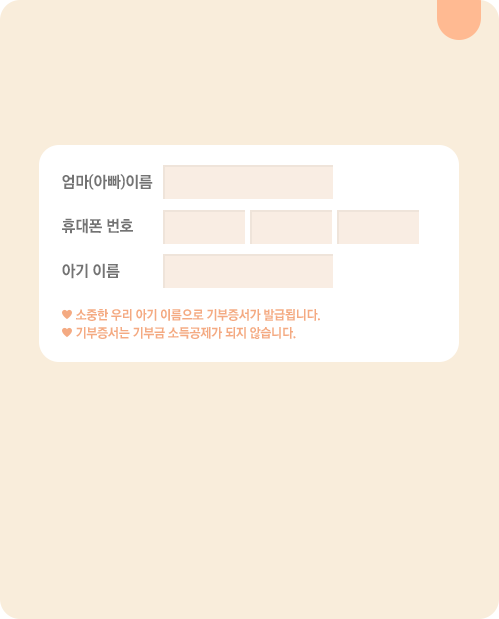
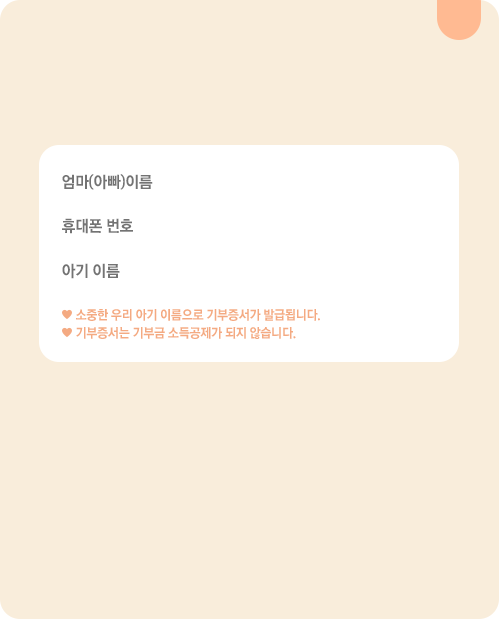
인풋 수정

Changed region(s): [[0.3006, 0.2456, 0.8417, 0.4911]]

diff --git a/PC/css/style_yang.css b/PC/css/style_yang.css
@@ -38,7 +38,8 @@ a {
 	padding: 0;
 	font-size: 100%;
 	vertical-align: baseline;
-	background: transparent
+	background: transparent;
+	outline: none !important;
 }
 ins {
 	background-color: #ff9;
@@ -889,7 +890,6 @@ body.main{
 }
 
 .popup_wrap .p_position.p_mid_input .block_input .input_one input{
-	border:none;
 	padding:5px 3px;
 	width:160px;
 	font-family:Gotham, "Helvetica Neue", Helvetica, Arial, sans-serif;
@@ -897,7 +897,10 @@ body.main{
 	font-size:14px;
 	line-height:18px;
 	color:#000;
-	background:none;
+	background: #f9ede3; 
+	border: none; 
+	border-left: 2px solid #efe4da; 
+	border-top: 2px solid #efe4da;	
 }
 
 .popup_wrap .p_position.p_mid_input .block_input .input_one select{
@@ -911,7 +914,10 @@ body.main{
 	color:#000;
 	height:37px;
 	border-radius:none;
-	background:none;
+    background: #f9ede3; 
+	border: none; 
+	border-left: 2px solid #efe4da; 
+	border-top: 2px solid #efe4da;	
 }
 
 .popup_wrap .p_position.p_mid_input .block_input .input_one .input_phone .phone_ip input{
